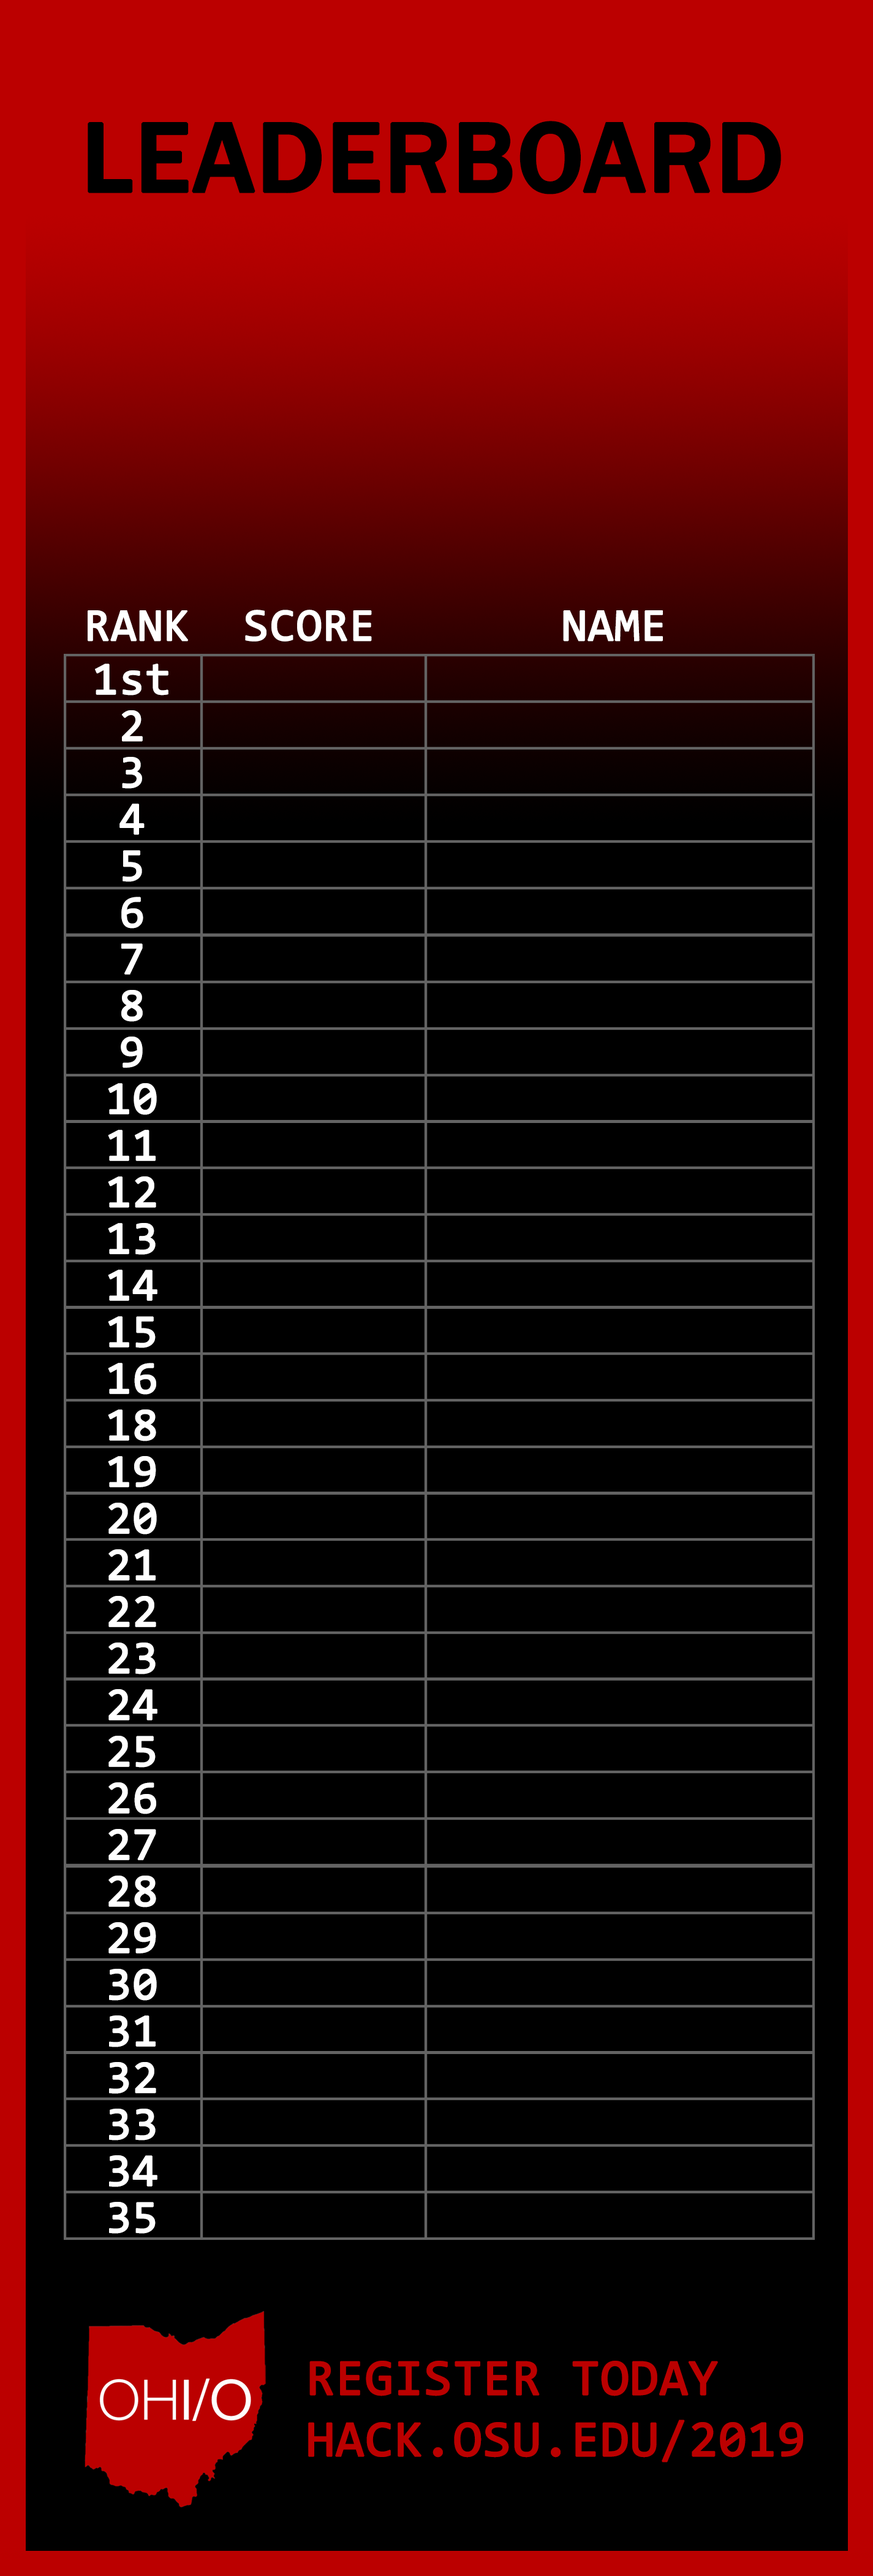
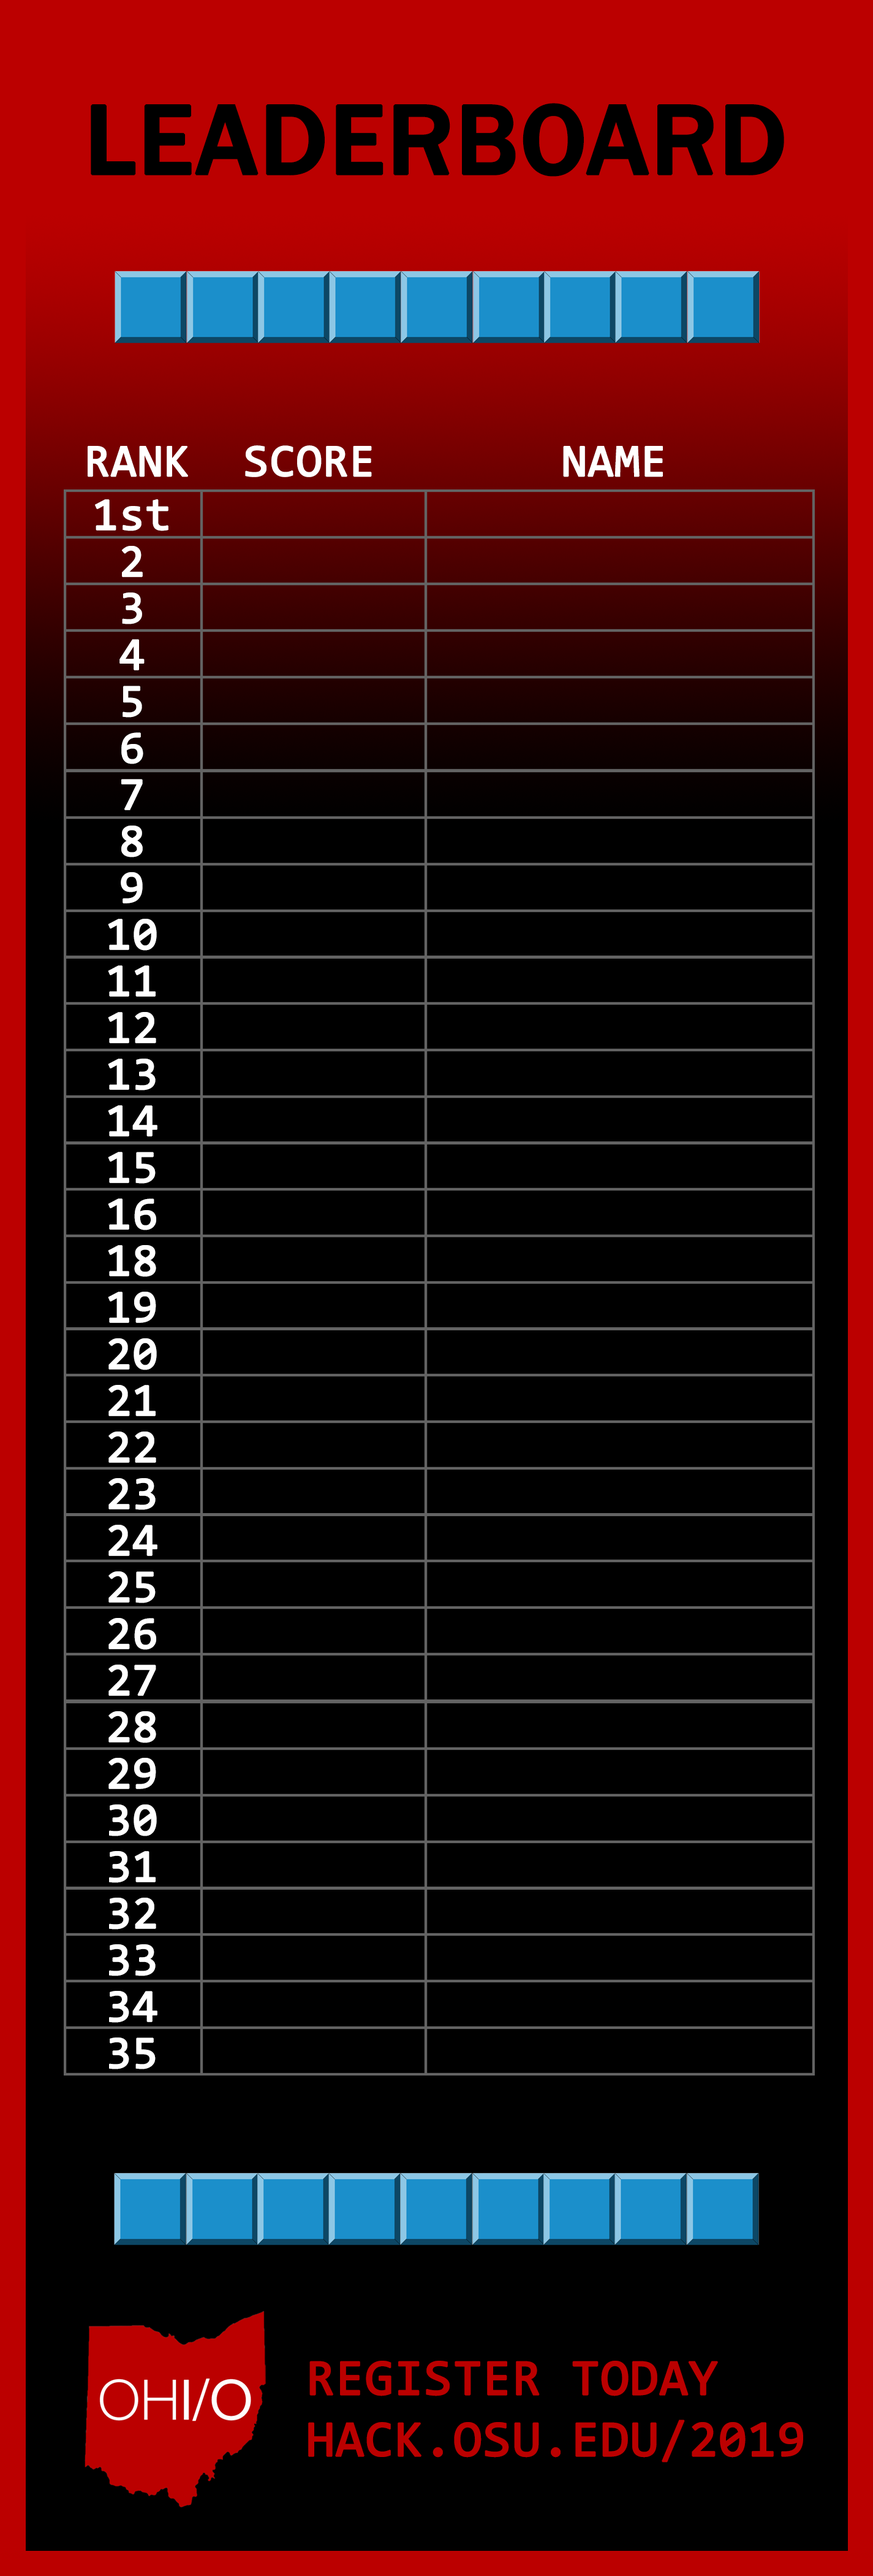
Add files via upload

diff --git a/src/main.py b/src/main.py
@@ -64,6 +64,7 @@ def new_board():
     return board
 
 class GameView(arcade.View):
+    global ALL_SCORES
 
     def newGame(self):
         self.resetGame()
@@ -75,6 +76,7 @@ class GameView(arcade.View):
         self.frame_count = 0                #reset game frame counter
         self.game_over = False              #reset game end state
         self.paused = True
+        self.addedScore = False
         self.board_sprite_list = None
         self.background = None
 
@@ -132,7 +134,6 @@ class GameView(arcade.View):
         if check_collision(self.board, self.stone, (self.stone_x, self.stone_y)):
             self.game_over = True
 			##--- ADD COMMAND TO SWITCH STATES TO "GAME-OVER" STATE WHEN GAME-ENDS
-
 
     def drop(self):
         """
@@ -244,9 +245,13 @@ class GameView(arcade.View):
         self.board_sprite_list.draw()
         self.draw_grid(self.stone, self.stone_x, self.stone_y)
 
-        if self.game_over == True:
-            addScore(self.player_name, self.score, self.level)  #calls to function to add player to leaderboard
-            print("added score")
+        if self.game_over == True and self.addedScore == False :
+            ALL_SCORES.append( [ self.score, self.player_name, self.level ] )       #calls to function to add player to leaderboard
+            self.addedScore = True
+            ALL_SCORES.sort(reverse = True )
+            saveScores(ALL_SCORES)
+            print("Added score & Sorted Scoreboard")
+            print(ALL_SCORES)
 
 
     def build_mscb(self):
@@ -254,15 +259,16 @@ class GameView(arcade.View):
         score_text = f"{self.score}"
         level_text = f"{self.level}"
         arcade.draw_rectangle_outline(e_mscb_xposn, e_mscb_yposn, e_mscb_width, e_mscb_height, [0,153,153], 2)
-        arcade.draw_text("SCORE", e_mscb_xposn-138, e_mscb_yposn-20, arcade.color.BLACK, 12, width=170, align="left", anchor_x="center", anchor_y="center")
-        arcade.draw_text(score_text, e_mscb_xposn-90, e_mscb_yposn, arcade.color.BLACK, 30, width=100, align="left", anchor_x="center", anchor_y="center")
-
-        arcade.draw_text("LEVEL", e_mscb_xposn+138, e_mscb_yposn-20, arcade.color.BLACK, 12, width=170, align="right", anchor_x="center", anchor_y="center")
+        arcade.draw_text("SCORE",    e_mscb_xposn-int(0.35*SCREEN_WIDTH),  e_mscb_yposn - e_mscb_height*0.25, arcade.color.BLACK, float(SCREEN_HEIGHT*0.013),  bold = True, align="left", anchor_x="center", anchor_y="center")
+        arcade.draw_text(score_text, e_mscb_xposn-int(0.22*SCREEN_WIDTH),   e_mscb_yposn - e_mscb_height*0.25, arcade.color.BLACK, float(SCREEN_HEIGHT*0.015), bold = True, align="left", anchor_x="center", anchor_y="center")
+        arcade.draw_text("LEVEL",    e_mscb_xposn-int(0.35*SCREEN_WIDTH),  e_mscb_yposn + e_mscb_height*0.25, arcade.color.BLACK, float(SCREEN_HEIGHT*0.013),  bold = True, align="right", anchor_x="center", anchor_y="center")
+        arcade.draw_text(level_text, e_mscb_xposn-int(0.22*SCREEN_WIDTH),   e_mscb_yposn + e_mscb_height*0.25, arcade.color.BLACK, float(SCREEN_HEIGHT*0.015), bold = True, align="left", anchor_x="center", anchor_y="center")
 
     def write_name(self):
-        """ Draw the mini score board when the player start playing. """
+        """ Draw the player name on active game screen """
         player_name = f"{self.player_name}"
-        arcade.draw_text(player_name, 0, SCREEN_HEIGHT-50, arcade.color.CADET_GREY, 30, width=340, align="center")
+        arcade.draw_text("- CURRENT CHALLENGER -", SCREEN_WIDTH/2, SCREEN_HEIGHT*0.94, arcade.color.CADET_GREY,  float(SCREEN_HEIGHT*0.021), align="center", anchor_x="center", anchor_y="center")
+        arcade.draw_text(player_name, SCREEN_WIDTH/2, SCREEN_HEIGHT*0.90, arcade.color.CADET_GREY,  float(SCREEN_HEIGHT*0.02), bold=True, width=340, align="center", anchor_x="center", anchor_y="center")
 
 
 #-- Game Logic
@@ -341,7 +347,11 @@ class GameView(arcade.View):
                     's', 't', 'u', 'v', 'w', 'x', 'y', 'z'][key-97])
             elif 47 < key < 58:
                 self.player_name += str(key-48)
+            elif 65455 < key <65466:
+                self.player_name += str(key-65456)
             elif key == arcade.key.PERIOD:
+                self.player_name += '.'
+            elif key == 65454:
                 self.player_name += '.'
             elif key == arcade.key.BACKSPACE:
                 self.player_name = self.player_name[:-1]
@@ -364,13 +374,13 @@ class MenuView(arcade.View):
         # Buttons are not intended to be clickable
         button = arcade.load_texture(BUTTONS[0])
         arcade.draw_texture_rectangle(  center_x=SCREEN_WIDTH // 2, center_y=SCREEN_HEIGHT // 2,
-                                        width=200, height=40, texture=button)
+                                        width= SCREEN_WIDTH*0.58, height= SCREEN_HEIGHT*0.04, texture=button)
         button = arcade.load_texture(BUTTONS[1])
-        arcade.draw_texture_rectangle(  center_x=SCREEN_WIDTH // 2, center_y=SCREEN_HEIGHT // 2-50,
-                                        width=200, height=40, texture=button)
+        arcade.draw_texture_rectangle(  center_x=SCREEN_WIDTH // 2, center_y=SCREEN_HEIGHT // 2 - (SCREEN_HEIGHT*0.05),
+                                        width= SCREEN_WIDTH*0.58, height= SCREEN_HEIGHT*0.04, texture=button)
         button = arcade.load_texture(BUTTONS[2])
-        arcade.draw_texture_rectangle(  center_x=SCREEN_WIDTH // 2, center_y=SCREEN_HEIGHT // 2-100,
-                                        width=200, height=40, texture=button)
+        arcade.draw_texture_rectangle(  center_x=SCREEN_WIDTH // 2, center_y=SCREEN_HEIGHT // 2 - (SCREEN_HEIGHT*0.1),
+                                        width= SCREEN_WIDTH*0.58, height= SCREEN_HEIGHT*0.04, texture=button)
 
 
         # TEXT - using graphic/textures for buttons now
@@ -400,6 +410,8 @@ class MenuView(arcade.View):
             next_view = GameView()
             next_view.newGame()
             self.window.show_view(next_view)
+
+        if key == 65307: arcade.close_window()
 #===============================================================================
 class LBView(arcade.View):
 
@@ -415,17 +427,25 @@ class LBView(arcade.View):
         arcade.draw_texture_rectangle(  center_x = SCREEN_WIDTH // 2,  center_y = SCREEN_HEIGHT // 2,
                                         width    = SCREEN_WIDTH,    height   = SCREEN_HEIGHT,
                                         texture  = self.background )
-        # TEXT
-        #arcade.draw_text("[S] BEGIN GAME", SCREEN_WIDTH/2, SCREEN_HEIGHT/2,
-        #                 arcade.color.CADET_GREY, font_size=15, font_name='arial',
-        #                 align="center", anchor_x="center", anchor_y="center")
-        #arcade.draw_text("[L] LEADER BOARD", SCREEN_WIDTH/2, SCREEN_HEIGHT/2 - 30,
-        #                 arcade.color.CADET_GREY, font_size=15, font_name='arial',
-        #                 align="center", anchor_x="center", anchor_y="center")
 
-        # BUTTONS
-        ############# ADD STUFF HERE ###############
-        ############# ADD STUFF HERE ###############
+        # Populate Leaderboard
+        currentRowHeight = SCREEN_HEIGHT * 0.8
+        for row in ALL_SCORES[0:34]:
+            arcade.draw_text( str(row[0]), start_x= SCREEN_WIDTH * 0.353, start_y= currentRowHeight,
+                              anchor_x = "center", anchor_y = "center",
+                              color= arcade.color.WHITE,
+                              font_size=float(SCREEN_HEIGHT*0.015),
+                              font_name='arial',
+                              align= "center", bold = True)
+            arcade.draw_text( str(row[1]), start_x= SCREEN_WIDTH * 0.718, start_y= currentRowHeight,
+                              anchor_x = "center", anchor_y = "center",
+                              color= arcade.color.WHITE,
+                              font_size=float(SCREEN_HEIGHT*0.015),
+                              font_name='arial-bold',
+                              align= "center", bold = True)
+            currentRowHeight -= SCREEN_HEIGHT * 0.018055
+
+
 
     def setup(self):
         print("FIXME - Build 'Setup' in LeaderBoard")
@@ -451,22 +471,32 @@ class LBView(arcade.View):
             self.window.show_view(next_view)
 #===============================================================================
 
+
 def main():
     """ Create the game window, setup, run
         #TO-DO load leaderboard file and send to game (?)
     """
+
+    # Initialize
+    global ALL_SCORES
+    ALL_SCORES = [   [0,"Brutus",   0],
+                     [1,"TomWDavis",0]  ]
+    FULL_SCREEN = False
+
+    # Setup Questions
+    askScores = input("Import Scores? (y/null): ")
+    if input("Full Screen?   (y/null): ") == 'y': FULL_SCREEN = True
+
     # Import Old Scoreboard
-    askScores = input("Import Scores? (y/n): ")
-    if askScores == "y":
-        ALL_SCORES = importScores()
-    else:
-        ALL_SCORES = [[0,"Brutus",0]]
+    if askScores == "y": ALL_SCORES = importScores()
     print(ALL_SCORES)
 
+
     # Game launch
-    window = arcade.Window(SCREEN_WIDTH, SCREEN_HEIGHT, SCREEN_TITLE)
-    window.total_score = 0
+    window = arcade.Window(width=SCREEN_WIDTH, height=SCREEN_HEIGHT, title=SCREEN_TITLE, fullscreen=FULL_SCREEN, resizable=True)
     window.set_mouse_visible(False)
+
+    # Launch Game
     menu_view = MenuView()   #start game in MenuView()
     window.show_view(menu_view)
 

diff --git a/src/game_variables.py b/src/game_variables.py
@@ -19,10 +19,8 @@ BUTTONS = [ "assets" + os.sep + "button_play.png",
 # Game over text
 GAME_OVER = "assets" + os.sep +  "gameover.png"
 
-
-
-
-
+#pixel multiplier
+#pm = 0.0178571429
 
 
 ############-- MISC GLOBAL VARIABLES --##################
@@ -33,33 +31,37 @@ GAME_OVER = "assets" + os.sep +  "gameover.png"
 INITIAL_GAME_SPEED = 10
 
 #- TETRIS BOARD SIZE
-ROW_COUNT = 20
+ROW_COUNT = 22
 COLUMN_COUNT = 10
 
-#- Stone Components
-WIDTH = 30      # brick & cell WIDTH
-HEIGHT = 30     # brick & cell HEIGHT
-MARGIN = 2   # This sets the margin between each cell
-
-# TETRIS BOARD dimensions
-TETRIS_WIDTH = (WIDTH + MARGIN) * COLUMN_COUNT + MARGIN
-TETRIS_HEIGHT = (HEIGHT + MARGIN) * ROW_COUNT + MARGIN
-
 # WINDOW DIMENSIONS
-
+#SCREEN_WIDTH  = 513
+#SCREEN_HEIGHT = 1512
 SCREEN_WIDTH  = 342
 SCREEN_HEIGHT = 1008
 SCREEN_TITLE  = "Tetris"
 
+#- Stone Components
+WIDTH  = int(0.0877193 * SCREEN_WIDTH)               # og: 30  brick & cell WIDTH
+HEIGHT = WIDTH                                       # og: 30  brick & cell HEIGHT
+MARGIN = int(0.0666666 * 0.0877193 * SCREEN_WIDTH)   # og:  2  This sets the margin between each cell
+
 HIDE_BOTTOM   = HEIGHT+MARGIN
 SCREEN_MARGIN = (1/2) * (SCREEN_WIDTH - COLUMN_COUNT*( WIDTH+MARGIN ))
 
+# TETRIS BOARD dimensions
+#TETRIS_WIDTH = ((WIDTH + MARGIN) * COLUMN_COUNT + MARGIN)
+TETRIS_WIDTH = SCREEN_WIDTH * 0.95
+TETRIS_HEIGHT = (HEIGHT + MARGIN) * ROW_COUNT + MARGIN
+
+
+
 ############-- GAME VIEW ITEM PLACEMENT --##################
 
-e_mscb_height = 60
+e_mscb_height = 80
 e_mscb_width = SCREEN_WIDTH - (2*SCREEN_MARGIN)
 e_mscb_xposn  = SCREEN_WIDTH / 2
-e_mscb_yposn  = TETRIS_HEIGHT + 20 + e_mscb_height/2
+e_mscb_yposn  = TETRIS_HEIGHT + (0.02*SCREEN_HEIGHT) + e_mscb_height/2
 
 ################################################################################
 

diff --git a/src/game_scores.py b/src/game_scores.py
@@ -1,23 +1,31 @@
 """
 This module contains the back-end of the scoring system for the game.
+
+SCORE SAVE FILE STRUCTURED AS csv...
+SCORE NAME LEVEL
+
+
 """
 
 import csv
 
-def addScore(player_name, score, level):
-    ALL_SCORES.append([score, player_name, level])
 
 def importScores():
-    ALL_SCORES = [[0,"Brutus",0]]
+    ALL_SCORES = []
     with open('tetris_scores.csv', newline='') as csvfile:
         currentLine = csv.reader(csvfile, delimiter=' ')
         i=0
         for row in currentLine:
-            ALL_SCORES.append([ row[0], row[1], row[2] ])
+            ALL_SCORES.append([ int(row[0]), str(row[1]), int(row[2]) ])
             i+=1
     return ALL_SCORES
-    #print(ALL_SCORES[1][1])
 
 
-#SCORE SAVE FILE STRUCTURED AS csv...
-# SCORE NAME LEVEL
+
+
+def saveScores(SCORES):
+    with open('tetris_scores.csv', 'w', newline='') as csvfile:
+        currentLine = csv.writer(csvfile, delimiter=' ')
+        i=0
+        for row in SCORES:
+            currentLine.writerow( [ row[0], row[1], row[2] ] )
